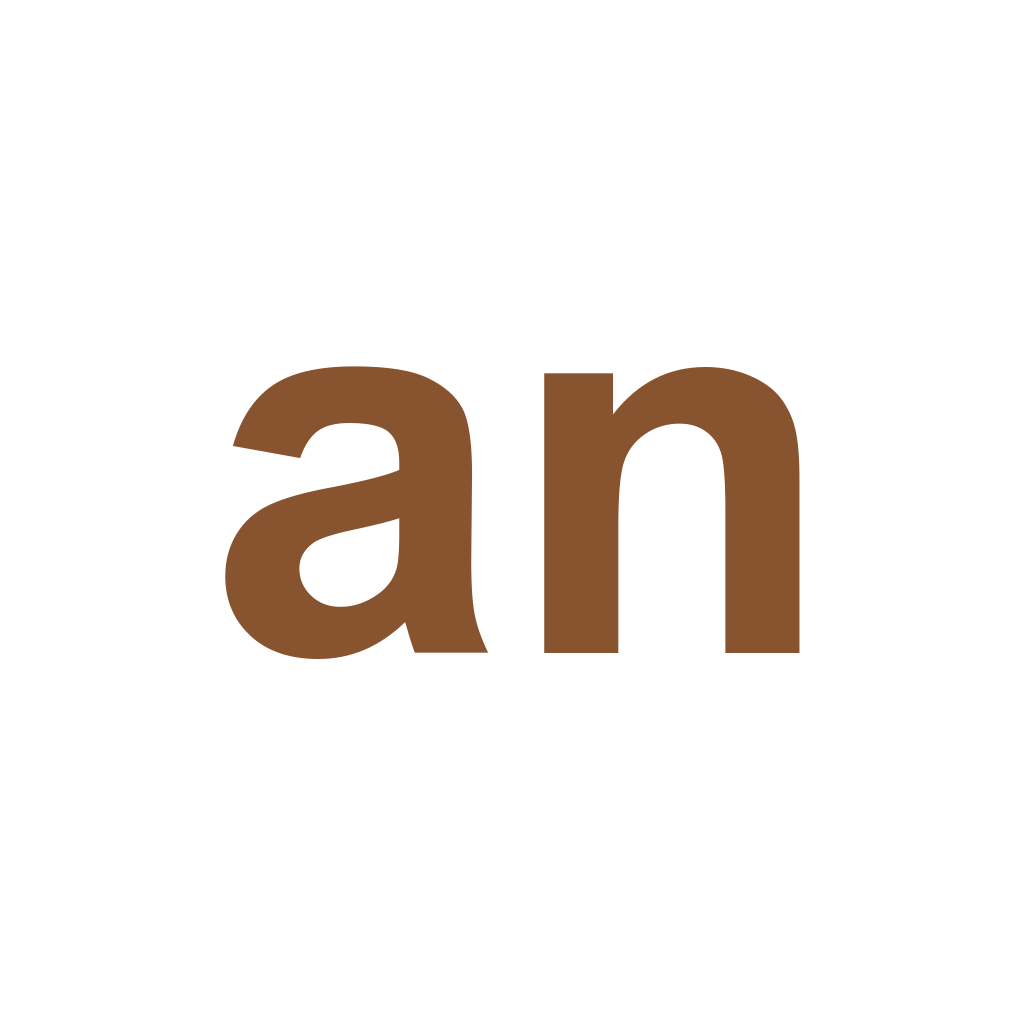
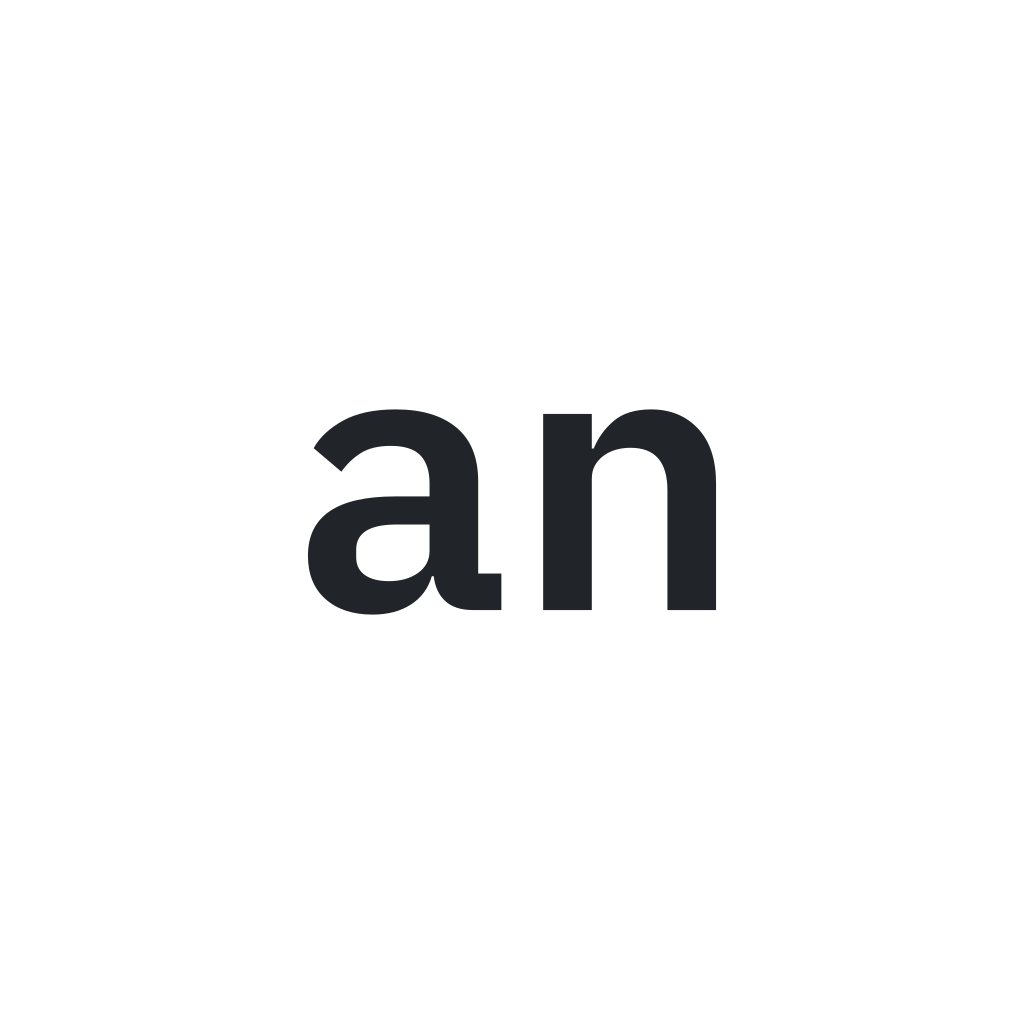
style: recolor brand assets with the light theme palette

Changed region(s): [[0.5312, 0.3438, 0.7812, 0.6562], [0.2188, 0.3438, 0.5, 0.6562]]

diff --git a/src/config/site.ts b/src/config/site.ts
@@ -75,7 +75,7 @@ export const SITE = {
   description:
     "Notes de travail et réflexion générales sur l'enseignement du Français Langue Étrangère (FLE) et les technologies.",
   defaultSocialImage: '/og-default.jpg',
-  socialImageAlt: "Image avec un symbole circulaire dans lequel est écrit AN, sous-titré par alnah.me, centré sur un fond chaud.",
+  socialImageAlt: "Image avec un symbole circulaire dans lequel est écrit an, sous-titré par alnah.me, centré sur un fond clair.",
   xHandle: '@_alnah',
   author: {
     name: 'Alexis Nahan',
